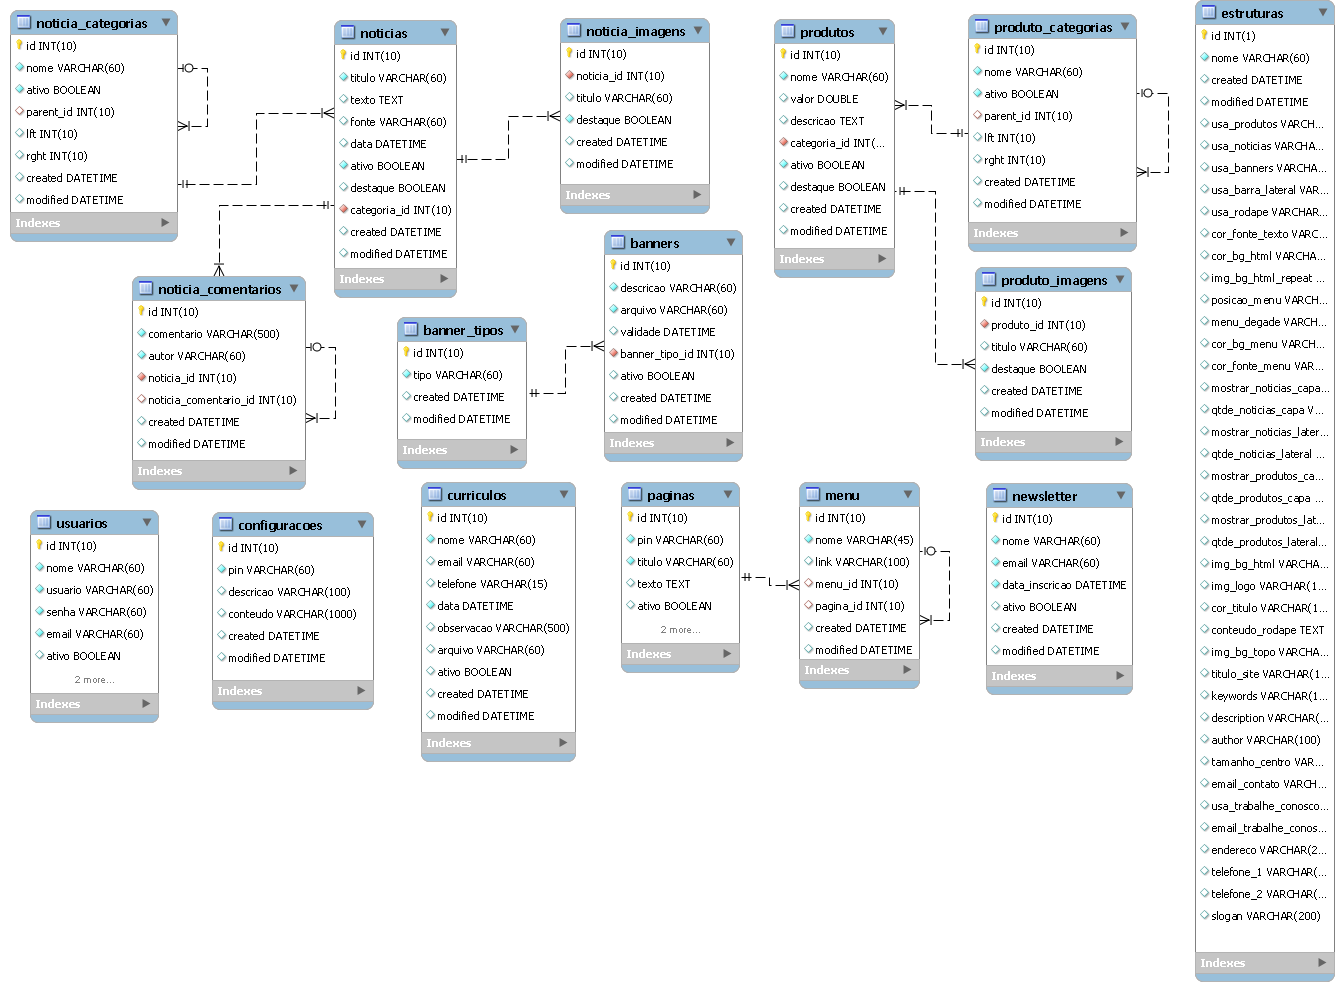
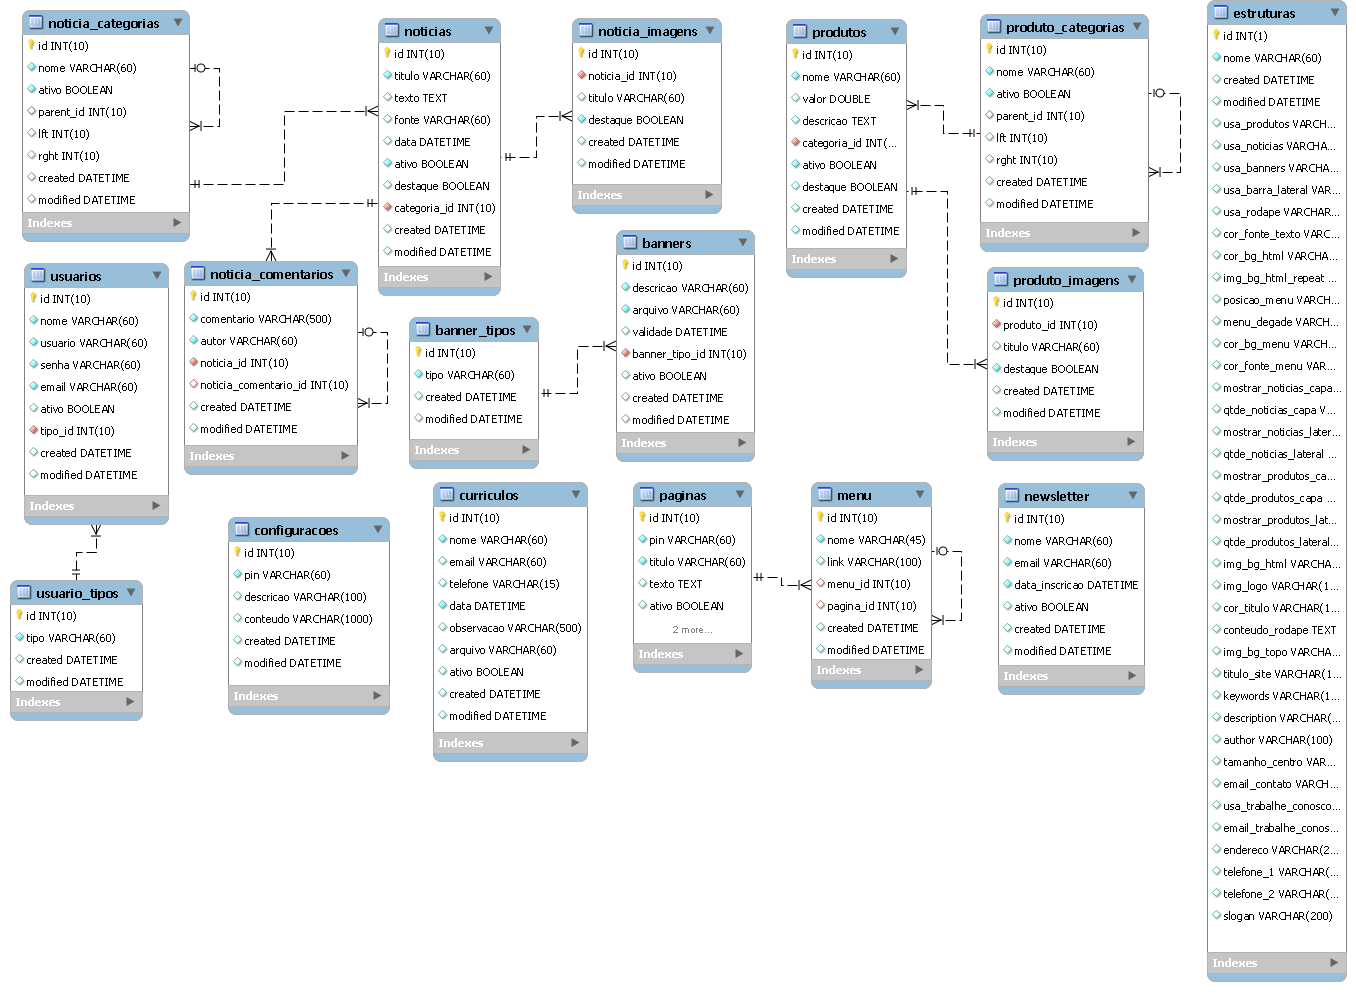
Alterado banco, alterado telas de listagem, cadastro e edição de usuário.

diff --git a/app/webroot/js/geral_admin.js b/app/webroot/js/geral_admin.js
@@ -92,8 +92,8 @@ $(document).ready(function(){
 
 function toogleCampos(){
     if ($('#ConfiguracaoUsaProdutos').is(':checked') || $('#ConfiguracaoUsaNoticias').is(':checked')) {
-        $('div.campos input, select').removeAttr('disabled');
+        $('div.campos input, div.campos select').removeAttr('disabled');
     } else {
-        $('div.campos input, select').attr('disabled', true);
+        $('div.campos input, div.campos select').attr('disabled', true);
     }
 }

diff --git a/app/webroot/css/admin.css b/app/webroot/css/admin.css
@@ -370,6 +370,16 @@ div.error-message {
     color: #3589ba;
 }
 
+/* --- Usuarios --- */
+#c-usuarios.a-admin_add #UsuarioNome,
+#c-usuarios.a-admin_edit #UsuarioNome,
+#c-usuarios.a-admin_add #UsuarioEmail,
+#c-usuarios.a-admin_edit #UsuarioEmail,
+#c-usuarios.a-admin_add #UsuarioUsuario,
+#c-usuarios.a-admin_edit #UsuarioUsuario {
+    width: 300px;
+}
+
 /* --- Rodape --- */
 #rodape {
     height: 51px;

diff --git a/app/webroot/css/geral_externo.css b/app/webroot/css/geral_externo.css
@@ -26,6 +26,8 @@ body {
 
 /* --- Base --- */
 #menu.esquerda {
+    float: left;
+    display: inline;
     width: 120px;
     padding: 20px 15px;
 }

diff --git a/app/Controller/UsuariosController.php b/app/Controller/UsuariosController.php
@@ -193,6 +193,11 @@ class UsuariosController extends AppController {
                 $this->Session->setFlash(__('The user could not be saved. Please, try again.'));
             }
         }
+
+        $tipos = $this->Usuario->UsuarioTipo->find('list', array());
+        $this->set(compact('tipos'));
+
+        $this->set('title_for_layout', __('Novo Usuário') . ' - ' . $this->title_for_layout);
     }
 
     public function admin_edit($id = null) {
@@ -211,24 +216,28 @@ class UsuariosController extends AppController {
             $this->request->data = $this->Usuario->read(null, $id);
             unset($this->request->data['Usuario']['senha']);
         }
+
+        $tipos = $this->Usuario->UsuarioTipo->find('list', array());
+        $this->set(compact('tipos'));
+
+        $this->set('title_for_layout', __('Editar Usuário') . ' - ' . $this->title_for_layout);
     }
 
-//
-//    public function delete($id = null) {
-//        if (!$this->request->is('post')) {
-//            throw new MethodNotAllowedException();
-//        }
-//        $this->Usuario->id = $id;
-//        if (!$this->Usuario->exists()) {
-//            throw new NotFoundException(__('Invalid user'));
-//        }
-//        if ($this->Usuario->delete()) {
-//            $this->Session->setFlash(__('Usuario deleted'));
-//            $this->redirect(array('action' => 'index'));
-//        }
-//        $this->Session->setFlash(__('Usuario was not deleted'));
-//        $this->redirect(array('action' => 'index'));
-//    }
+    public function admin_delete($id = null) {
+        if (!$this->request->is('post')) {
+            throw new MethodNotAllowedException();
+        }
+        $this->Usuario->id = $id;
+        if (!$this->Usuario->exists()) {
+            throw new NotFoundException(__('Invalid user'));
+        }
+        if ($this->Usuario->delete()) {
+            $this->Session->setFlash(__('Usuario deleted'));
+            $this->redirect(array('action' => 'index'));
+        }
+        $this->Session->setFlash(__('Usuario was not deleted'));
+        $this->redirect(array('action' => 'index'));
+    }
 
     public function choose_language($language = 'pt-br') {
         $this->Session->write('Config.language', $language);
@@ -285,6 +294,50 @@ class UsuariosController extends AppController {
 
         $this->layout = 'login';
         $this->set('title_for_layout', __('Esqueci meu usuário/senha') . ' - ' . $this->title_for_layout);
+    }
+
+    public function admin_nova_senha($id = null) {
+
+        $usuario = $this->Usuario->find('first', array(
+            'conditions' => array(
+                'Usuario.id' => $id
+            )
+                ));
+
+        $nova_senha = uniqid();
+
+        $usuario['Usuario']['senha'] = $nova_senha;
+
+//      if ($this->Usuario->save($usuario)) {
+
+        $email = new CakeEmail('smtp');
+        $email->viewVars(array('value' => 12345));
+//                $email->deliver('smtp');
+        $email->template('contato');
+        $email->emailFormat('html');
+        $email->to($usuario['Usuario']['email']);
+        $email->subject('Nova senha');
+        $email->from('robertomendesgarcia@gmail.com');
+
+        if ($email->send()) {
+            die('1');
+
+            $this->Session->setFlash(__('Você receberá um e-mail com seu usuário e sua nova senha.'), 'flash_message', array('tipo' => 'success'), 'admin');
+            $this->redirect(array('action' => 'login'));
+        } else {
+            die('0');
+        }
+
+//        pr($email);
+//        exit;
+////      }
+//
+//        pr($usuario);
+//        exit;
+
+        $this->Session->setFlash(__('Teste!!.'), 'flash_message', array('tipo' => 'success'), 'admin');
+
+        $this->redirect(array('action' => 'admin_index'));
     }
 
 }

diff --git a/app/Model/Configuracao.php b/app/Model/Configuracao.php
@@ -70,7 +70,7 @@ class Configuracao extends AppModel {
         $posicao_menu = null;
         $tamanho = 'grande';
 
-        if ($this->data['Configuracao']['pin'] == 'barra_lateral') {
+        if ($this->data['Configuracao']['pin'] == 'usa_barra_lateral') {
             $barra_lateral = $this->data['Configuracao']['conteudo'];
             $registro = $this->find('first', array(
                 'conditions' => array(
@@ -82,11 +82,13 @@ class Configuracao extends AppModel {
             $posicao_menu = $this->data['Configuracao']['conteudo'];
             $registro = $this->find('first', array(
                 'conditions' => array(
-                    'pin' => 'barra_lateral'
+                    'pin' => 'usa_barra_lateral'
                 )
                     ));
             $barra_lateral = $registro['Configuracao']['conteudo'];
         }
+        
+//        die($barra_lateral . ' --- ' . $posicao_menu);
 
         if (!empty($posicao_menu) && !empty($barra_lateral)) {
 

diff --git a/app/Model/Usuario.php b/app/Model/Usuario.php
@@ -5,11 +5,10 @@ App::uses('AuthComponent', 'Controller/Component');
 class Usuario extends AppModel {
 
     public $name = 'Usuario';
-    
 //    public $virtualFields = array(
 //        'confirmar_senha' => ''
 //    );
-    
+
     public $validate = array(
         'nome' => array(
             'Obrigatorio' => array(
@@ -54,6 +53,15 @@ class Usuario extends AppModel {
                 'message' => 'A senha e sua confirmação não são iguais.'
             )
         ),
+    );
+    public $belongsTo = array(
+        'UsuarioTipo' => array(
+            'className' => 'UsuarioTipo',
+            'foreignKey' => 'tipo_id',
+            'conditions' => '',
+            'fields' => '',
+            'order' => ''
+        )
     );
 
     public function confirmarSenha($data) {

diff --git a/app/Controller/AppController.php b/app/Controller/AppController.php
@@ -143,6 +143,16 @@ class AppController extends Controller {
                 ));
         $this->set('opcoes_menu', $paginas);
 
+        if ($config['usa_produtos']) {
+            $this->loadModel('ProdutoCategoria');
+            $produto_categorias = $this->ProdutoCategoria->find('all', array(
+                'conditions' => array(
+                    'ProdutoCategoria.ativo' => 1
+                ),
+                'order' => 'ProdutoCategoria.nome ASC'
+                    ));
+            $this->set('produto_categorias', $produto_categorias);
+        }
 
 
 //        $this->loadModel('Menu');

diff --git a/app/Model/UsuarioTipo.php b/app/Model/UsuarioTipo.php
@@ -1,0 +1,19 @@
+<?php
+
+App::uses('AppModel', 'Model');
+
+class UsuarioTipo extends AppModel {
+
+    public $displayField = 'tipo';
+    
+    public $hasMany = array(
+        'Usuario' => array(
+            'className' => 'Usuario',
+            'foreignKey' => 'tipo_id',
+            'conditions' => '',
+            'fields' => '',
+            'order' => ''
+        )
+    );
+
+}
